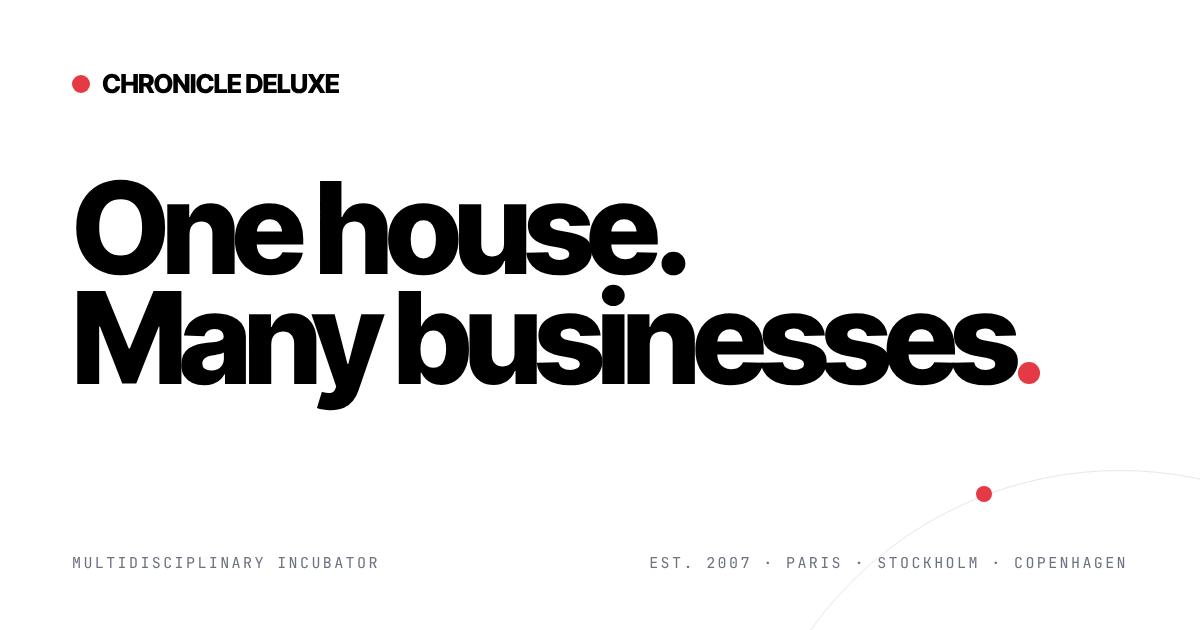
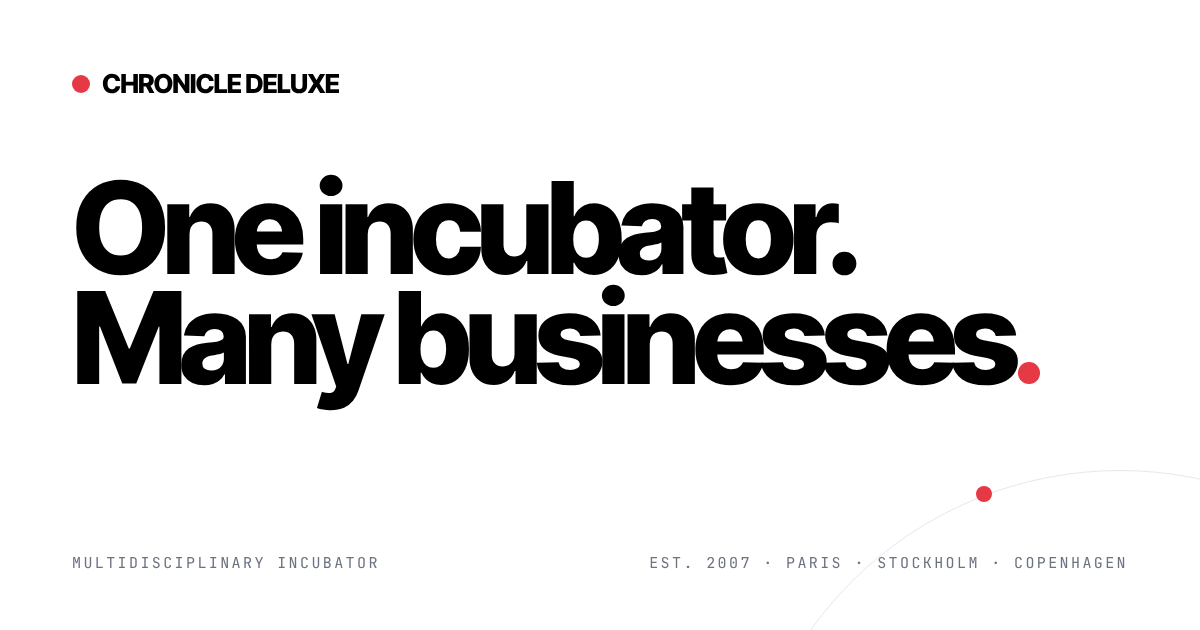
Chronicle Deluxe: One incubator, AW27 in the works, platforms before apps
- The headline is "One incubator. Many businesses." everywhere: the hero,
  the share titles, the structured data slogan and the share image.
- Past Tense is now working on AW27: nine seasons from AW23, in a three
  by three grid, with AW27 pulsing.
- Quomoda and Resourced move ahead of the apps as §04 Platforms; Good
  Margin becomes §05 and Built for us first §06. The index, chapter bars
  and README follow.

Claude-Session: https://claude.ai/code/session_012drcf1SkChJmKaKG4q9mYH

Changed region(s): [[0.2467, 0.2714, 0.7092, 0.4524]]

diff --git a/chronicle-deluxe/index.html b/chronicle-deluxe/index.html
@@ -14,16 +14,16 @@
 
   <meta property="og:type" content="website">
   <meta property="og:site_name" content="Chronicle Deluxe">
-  <meta property="og:title" content="Chronicle Deluxe | One house. Many businesses.">
+  <meta property="og:title" content="Chronicle Deluxe | One incubator. Many businesses.">
   <meta property="og:description" content="A multidisciplinary incubator for fashion, AI and apps. Strategy for fashion and luxury since 2007, and our own ventures built alongside.">
   <meta property="og:url" content="https://www.chronicledeluxe.com/">
   <meta property="og:image" content="https://www.chronicledeluxe.com/assets/img/og.png">
   <meta property="og:image:width" content="1200">
   <meta property="og:image:height" content="630">
-  <meta property="og:image:alt" content="Chronicle Deluxe: One house. Many businesses.">
+  <meta property="og:image:alt" content="Chronicle Deluxe: One incubator. Many businesses.">
   <meta property="og:locale" content="en_US">
   <meta name="twitter:card" content="summary_large_image">
-  <meta name="twitter:title" content="Chronicle Deluxe | One house. Many businesses.">
+  <meta name="twitter:title" content="Chronicle Deluxe | One incubator. Many businesses.">
   <meta name="twitter:description" content="A multidisciplinary incubator for fashion, AI and apps. Strategy for fashion and luxury since 2007, and our own ventures built alongside.">
   <meta name="twitter:image" content="https://www.chronicledeluxe.com/assets/img/og.png">
 
@@ -62,7 +62,7 @@
         "image": "https://www.chronicledeluxe.com/assets/img/og.png",
         "email": "hi@chronicledeluxe.com",
         "foundingDate": "2007",
-        "slogan": "One house. Many businesses.",
+        "slogan": "One incubator. Many businesses.",
         "description": "Multidisciplinary business incubator: strategy for fashion and luxury brands since 2007, AI implementation, and our own ventures in fashion, software and apps.",
         "knowsAbout": ["Fashion strategy", "Luxury brand strategy", "Merchandising", "Product development", "Supply chain operations", "S&OP", "PLM systems", "ERP for fashion", "Business intelligence", "AI implementation"],
         "areaServed": ["Europe", "North America", "Asia"],
@@ -121,9 +121,9 @@
       <li><a href="#services"><span class="mono">§01</span>Services</a></li>
       <li><a href="#technologies"><span class="mono">§02</span>Technologies</a></li>
       <li><a href="#past-tense"><span class="mono">§03</span>Past Tense</a></li>
-      <li><a href="#good-margin"><span class="mono">§04</span>Good Margin</a></li>
-      <li><a href="#built-for-us"><span class="mono">§05</span>Built for us first</a></li>
-      <li><a href="#also"><span class="mono">§06</span>Also</a></li>
+      <li><a href="#platforms"><span class="mono">§04</span>Platforms</a></li>
+      <li><a href="#good-margin"><span class="mono">§05</span>Good Margin</a></li>
+      <li><a href="#built-for-us"><span class="mono">§06</span>Built for us first</a></li>
       <li><a href="#clients"><span class="mono">§07</span>Clients</a></li>
       <li><a href="#contact"><span class="mono">End</span>Let's talk</a></li>
     </ol>
@@ -140,7 +140,7 @@
         </div>
         <h1 class="hero-title" id="hero-title" data-hero-title>
           <span class="sr-only">Chronicle Deluxe: </span>
-          <span class="line"><span class="line-in" style="--i:1">One house.</span></span>
+          <span class="line"><span class="line-in" style="--i:1">One incubator.</span></span>
           <span class="line"><span class="line-in" style="--i:2">Many businesses<i class="big-dot" aria-hidden="true"></i></span></span>
         </h1>
         <div class="hero-lede" data-intro style="--i:4">
@@ -158,7 +158,7 @@
       <div class="wrap">
         <p class="statement-text" data-words>
           We are <b>AI first</b>: supporting brands with AI implementation and strategy across design, product development, buying, sales and operations.
-          We also build a few of our own: a Scandinavian label, iPhone apps, a wholesale platform.
+          We also build a few of our own: a Scandinavian label, a wholesale platform, iPhone apps.
           Outside fashion, every one of them started as a fix for <b>our own daily problems</b>.
         </p>
       </div>
@@ -212,7 +212,7 @@
 
       <div class="film" data-film aria-label="Past Tense lookbook">
         <div class="film-sticky">
-          <p class="film-cap mono wrap"><span>Lookbook · AW23 → SS27</span><span><b data-film-count>01</b> / 08</span></p>
+          <p class="film-cap mono wrap"><span>Lookbook · AW23 → AW27</span><span><b data-film-count>01</b> / 08</span></p>
           <ul class="film-track" role="list">
             <li><img src="assets/img/past-tense/01.webp" alt="Past Tense lookbook image 1" loading="lazy" width="900" height="1234"></li>
             <li><img src="assets/img/past-tense/02.webp" alt="Past Tense lookbook image 2" loading="lazy" width="900" height="1283"></li>
@@ -228,13 +228,14 @@
       </div>
 
       <div class="wrap seasons-block">
-        <p class="chapter-bar mono" data-reveal><span>§03·B · Collections</span><span>AW23 → SS27</span></p>
+        <p class="chapter-bar mono" data-reveal><span>§03·B · Collections</span><span>AW23 → AW27</span></p>
         <div class="seasons-head">
-          <h3 class="big" data-reveal>Eight seasons, one continuous line.</h3>
-          <p class="body muted" data-reveal>From debut in AW23 to what we are cutting now in SS27: a quiet, contiguous wardrobe.</p>
+          <h3 class="big" data-reveal>Nine seasons, one continuous line.</h3>
+          <p class="body muted" data-reveal>From debut in AW23 to what we are cutting now in AW27: a quiet, contiguous wardrobe.</p>
         </div>
         <ol class="seasons" role="list" data-seasons>
-          <li class="now"><b>SS27</b><span class="mono">Working on</span></li>
+          <li class="now"><b>AW27</b><span class="mono">Working on</span></li>
+          <li><b>SS27</b><span class="mono">·</span></li>
           <li><b>AW26</b><span class="mono">·</span></li>
           <li><b>SS26</b><span class="mono">·</span></li>
           <li><b>AW25</b><span class="mono">·</span></li>
@@ -246,10 +247,65 @@
       </div>
     </section>
 
-    <!-- ═══════════════════ §04 GOOD MARGIN ═══════════════════ -->
-    <section class="chapter good-margin" id="good-margin" aria-labelledby="gm-title" data-chapter="§04" data-name="Good Margin">
+    <!-- ═══════════════════ §04 PLATFORMS ═══════════════════ -->
+    <section class="chapter platforms" id="platforms" aria-labelledby="also-title" data-chapter="§04" data-name="Platforms">
       <div class="wrap">
-        <p class="chapter-bar mono" data-reveal><span>§04 · Good Margin</span><span>App · iOS · 2026</span></p>
+        <p class="chapter-bar mono" data-reveal><span>§04 · Platforms</span><span>002</span></p>
+        <h2 class="chapter-lede" id="also-title" data-reveal>Two platforms for fashion brands that we run and back alongside client work.</h2>
+
+        <!-- Quomoda, built from quomoda.com's own landing page (adry/fashionOS, src/pages/Landing.tsx) -->
+        <article class="vp vp-qm" data-reveal data-vp aria-labelledby="qm-title">
+          <p class="vp-tag mono"><span>01 · Quomoda · Since 2020</span><span>Operator · quomoda.com</span></p>
+          <div class="vp-panel">
+            <canvas class="qm-particles" data-qm-particles aria-hidden="true"></canvas>
+            <div class="qm-glow" aria-hidden="true"></div>
+            <div class="qm-hero">
+              <div class="qm-rise"><img class="qm-q" src="assets/img/ventures/quomoda-q.webp" width="171" height="200" alt="Quomoda" loading="lazy"></div>
+              <p class="qm-pill qm-rise" style="--d:.05s"><svg class="qm-spark" viewBox="0 0 24 24" width="14" height="14" aria-hidden="true"><defs><linearGradient id="qm-ai-full" x1="0" y1="1" x2="1" y2="0"><stop offset="0%" stop-color="#4F46E5"/><stop offset="34%" stop-color="#9333EA"/><stop offset="64%" stop-color="#EC4899"/><stop offset="100%" stop-color="#F59E0B"/></linearGradient></defs><path fill="url(#qm-ai-full)" d="M10 5.2 L11.9 11.1 L17.8 13 L11.9 14.9 L10 20.8 L8.1 14.9 L2.2 13 L8.1 11.1 Z"/><path fill="url(#qm-ai-full)" opacity=".5" d="M18.6 3 L19.5 5.6 L22.1 6.5 L19.5 7.4 L18.6 10 L17.7 7.4 L15.1 6.5 L17.7 5.6 Z"/></svg><span class="qm-ai">New</span><span class="qm-pill-t">AI does the data entry, you approve it</span></p>
+              <h3 id="qm-title"><span class="qm-w" style="--d:.15s">Fashion</span> <span class="qm-w" style="--d:.3s">business,</span> <span class="qm-w qm-primary" style="--d:.5s">simplified.</span></h3>
+              <p class="qm-lede qm-rise" style="--d:.75s">QUOMODA is the all-in-one platform for fashion brands and buyers: wholesale, retail and DTC. Linesheets, orders, stock and fulfilment in one place.</p>
+              <div class="qm-ctas qm-rise" style="--d:.95s">
+                <span class="qm-mag"><a class="qm-btn qm-shine" href="https://app.quomoda.com/auth/signup" target="_blank" rel="noopener">Get started<span class="sr-only"> on Quomoda (opens in a new tab)</span></a></span>
+                <span class="qm-mag"><a class="qm-btn qm-outline" href="https://calendly.com/adrienforray" target="_blank" rel="noopener"><svg viewBox="0 0 24 24" width="16" height="16" fill="none" stroke="currentColor" stroke-width="2" stroke-linecap="round" stroke-linejoin="round" aria-hidden="true"><path d="M8 2v4M16 2v4"/><rect x="3" y="4" width="18" height="18" rx="2"/><path d="M3 10h18M8 14h.01M12 14h.01M16 14h.01M8 18h.01M12 18h.01M16 18h.01"/></svg>Book a demo<span class="sr-only"> (opens in a new tab)</span></a></span>
+                <span class="qm-mag"><a class="qm-btn qm-ghost" href="https://app.quomoda.com/auth/login" target="_blank" rel="noopener">Sign in<span class="sr-only"> to Quomoda (opens in a new tab)</span></a></span>
+              </div>
+            </div>
+            <div class="qm-how">
+              <p class="qm-kicker">How it works</p>
+              <h4 class="qm-how-title">Four steps from collection to cash</h4>
+              <ol class="qm-steps" data-qm-steps role="list">
+                <li class="qm-card"><p class="qm-head"><span class="qm-n">01</span><span class="qm-zone">Design &amp; samples</span><span class="qm-slot"><span class="qm-was">Draft</span><span class="qm-now live">Live</span></span></p><h5>Share your linesheet</h5><p>Upload your collection once and send buyers a beautiful, shoppable link. No PDFs, no spreadsheets.</p><p class="qm-foot"><span class="qm-ref">SS26-LINESHEET</span><span>42 styles · 6 buyers</span></p></li>
+                <li class="qm-card"><p class="qm-head"><span class="qm-n">02</span><span class="qm-zone">Showroom</span><span class="qm-slot"><span class="qm-was">Pending</span><span class="qm-now ok">Confirmed</span></span></p><h5>Buyers order directly</h5><p>Wholesale orders land in QUOMODA, confirmed in one click: sizes, doors and delivery drops included.</p><p class="qm-foot"><span class="qm-ref">ORD-2026-0142</span><span>Atelier Verdon · 68 units</span></p></li>
+                <li class="qm-card"><p class="qm-head"><span class="qm-n">03</span><span class="qm-zone">Production</span><span class="qm-slot"><span class="qm-was">Planned</span><span class="qm-now work">In production</span></span></p><h5>Produce &amp; receive stock</h5><p>Raise purchase orders to your factories, track production, then receive finished goods straight into stock.</p><p class="qm-foot"><span class="qm-ref">PO-2048</span><span>Manifattura Tessile · 300 units</span></p></li>
+                <li class="qm-card"><p class="qm-head"><span class="qm-n">04</span><span class="qm-zone">Dispatch</span><span class="qm-slot"><span class="qm-was">Packing</span><span class="qm-now ok">Sent</span></span></p><h5>You ship &amp; invoice</h5><p>Allocate stock, print pick and packing lists, and send invoices as PDFs. Wholesale and DTC ship from the same stock.</p><p class="qm-foot"><span class="qm-ref">INV-2026-0087</span><span>4 cartons</span></p></li>
+              </ol>
+            </div>
+          </div>
+        </article>
+
+        <!-- Resourced, built from resourced.com's own landing page (Resourced-AB/Landing-Page): the hero sentence, its rolling role and the real mark cloud -->
+        <article class="vp vp-rs" data-reveal data-vp aria-labelledby="rs-title">
+          <p class="vp-tag mono"><span>02 · Resourced · Since 2020</span><span>Investor · resourced.com</span></p>
+          <div class="vp-panel">
+            <div class="rs-mark" data-rs-mark aria-hidden="true"></div>
+            <div class="rs-copy">
+              <img class="rs-logo" src="assets/img/ventures/resourced-logo.svg" width="230" height="38" alt="Resourced" loading="lazy">
+              <h3 class="rs-lede" id="rs-title">You’re a <br class="rs-hold"><span class="rs-tail"><span class="rs-roll" data-roll><span class="rs-w is-on">product developer</span><span class="rs-w" aria-hidden="true">designer</span><span class="rs-w" aria-hidden="true">merchandiser</span><span class="rs-w" aria-hidden="true">buyer</span><span class="rs-w" aria-hidden="true">garment technologist</span><span class="rs-w" aria-hidden="true">sourcing manager</span><span class="rs-w" aria-hidden="true">production manager</span><span class="rs-w" aria-hidden="true">controller</span></span><span class="rs-dot" aria-hidden="true">.</span><span class="sr-only">.</span></span><br>Not an admin.</h3>
+              <p class="rs-sub">Bring everyone who touches your product into a single flow, from idea to finished product, so you ship the right product, at the right time, at the right price. That’s how brands scale for real.</p>
+              <p class="rs-act">
+                <a class="rs-btn" href="https://meetings-eu1.hubspot.com/meetings/egroendal/resourced-demo" target="_blank" rel="noopener">Book a demo <span aria-hidden="true">›</span><span class="sr-only">with Resourced (opens in a new tab)</span></a>
+                <a class="rs-link" href="https://www.resourced.com" target="_blank" rel="noopener">resourced.com <span aria-hidden="true">↗</span><span class="sr-only">(opens in a new tab)</span></a>
+              </p>
+            </div>
+          </div>
+        </article>
+      </div>
+    </section>
+
+    <!-- ═══════════════════ §05 GOOD MARGIN ═══════════════════ -->
+    <section class="chapter good-margin" id="good-margin" aria-labelledby="gm-title" data-chapter="§05" data-name="Good Margin">
+      <div class="wrap">
+        <p class="chapter-bar mono" data-reveal><span>§05 · Good Margin</span><span>App · iOS · 2026</span></p>
         <div class="gm-grid">
           <div class="gm-copy">
             <h2 class="giant upper" id="gm-title" data-split>Bad margin kills good brands<i class="dot" aria-hidden="true"></i></h2>
@@ -288,10 +344,10 @@
       </div>
     </section>
 
-    <!-- ═══════════════════ §05 BUILT FOR US FIRST ═══════════════════ -->
-    <section class="chapter own" id="built-for-us" aria-labelledby="own-title" data-chapter="§05" data-name="Built for us first">
+    <!-- ═══════════════════ §06 BUILT FOR US FIRST ═══════════════════ -->
+    <section class="chapter own" id="built-for-us" aria-labelledby="own-title" data-chapter="§06" data-name="Built for us first">
       <div class="wrap">
-        <p class="chapter-bar mono" data-reveal><span>§05 · Built for us first</span><span>003</span></p>
+        <p class="chapter-bar mono" data-reveal><span>§06 · Built for us first</span><span>003</span></p>
         <h2 class="giant" id="own-title" data-split>Outside fashion, we build what we need<i class="dot" aria-hidden="true"></i></h2>
         <p class="body own-lede" data-reveal>If something slows us down every day, we fix it. If the fix works for us, it usually works for someone else too, and it becomes a business with a look of its own.</p>
 
@@ -358,61 +414,6 @@
               <span class="dz-sticker s2" aria-hidden="true">🎂</span>
               <span class="dz-sticker s3" aria-hidden="true">🍿</span>
               <div class="dz-phone"><img src="assets/img/ventures/dayzie-home.webp" alt="The Dayzie home screen with a live countdown to a costume party" width="660" height="1434" loading="lazy"></div>
-            </div>
-          </div>
-        </article>
-      </div>
-    </section>
-
-    <!-- ═══════════════════ §06 ALSO ═══════════════════ -->
-    <section class="chapter also" id="also" aria-labelledby="also-title" data-chapter="§06" data-name="Also">
-      <div class="wrap">
-        <p class="chapter-bar mono" data-reveal><span>§06 · Also</span><span>002</span></p>
-        <h2 class="chapter-lede" id="also-title" data-reveal>Two platforms for fashion brands that we run and back alongside client work.</h2>
-
-        <!-- Quomoda, built from quomoda.com's own landing page (adry/fashionOS, src/pages/Landing.tsx) -->
-        <article class="vp vp-qm" data-reveal data-vp aria-labelledby="qm-title">
-          <p class="vp-tag mono"><span>01 · Quomoda · Since 2020</span><span>Operator · quomoda.com</span></p>
-          <div class="vp-panel">
-            <canvas class="qm-particles" data-qm-particles aria-hidden="true"></canvas>
-            <div class="qm-glow" aria-hidden="true"></div>
-            <div class="qm-hero">
-              <div class="qm-rise"><img class="qm-q" src="assets/img/ventures/quomoda-q.webp" width="171" height="200" alt="Quomoda" loading="lazy"></div>
-              <p class="qm-pill qm-rise" style="--d:.05s"><svg class="qm-spark" viewBox="0 0 24 24" width="14" height="14" aria-hidden="true"><defs><linearGradient id="qm-ai-full" x1="0" y1="1" x2="1" y2="0"><stop offset="0%" stop-color="#4F46E5"/><stop offset="34%" stop-color="#9333EA"/><stop offset="64%" stop-color="#EC4899"/><stop offset="100%" stop-color="#F59E0B"/></linearGradient></defs><path fill="url(#qm-ai-full)" d="M10 5.2 L11.9 11.1 L17.8 13 L11.9 14.9 L10 20.8 L8.1 14.9 L2.2 13 L8.1 11.1 Z"/><path fill="url(#qm-ai-full)" opacity=".5" d="M18.6 3 L19.5 5.6 L22.1 6.5 L19.5 7.4 L18.6 10 L17.7 7.4 L15.1 6.5 L17.7 5.6 Z"/></svg><span class="qm-ai">New</span><span class="qm-pill-t">AI does the data entry, you approve it</span></p>
-              <h3 id="qm-title"><span class="qm-w" style="--d:.15s">Fashion</span> <span class="qm-w" style="--d:.3s">business,</span> <span class="qm-w qm-primary" style="--d:.5s">simplified.</span></h3>
-              <p class="qm-lede qm-rise" style="--d:.75s">QUOMODA is the all-in-one platform for fashion brands and buyers: wholesale, retail and DTC. Linesheets, orders, stock and fulfilment in one place.</p>
-              <div class="qm-ctas qm-rise" style="--d:.95s">
-                <span class="qm-mag"><a class="qm-btn qm-shine" href="https://app.quomoda.com/auth/signup" target="_blank" rel="noopener">Get started<span class="sr-only"> on Quomoda (opens in a new tab)</span></a></span>
-                <span class="qm-mag"><a class="qm-btn qm-outline" href="https://calendly.com/adrienforray" target="_blank" rel="noopener"><svg viewBox="0 0 24 24" width="16" height="16" fill="none" stroke="currentColor" stroke-width="2" stroke-linecap="round" stroke-linejoin="round" aria-hidden="true"><path d="M8 2v4M16 2v4"/><rect x="3" y="4" width="18" height="18" rx="2"/><path d="M3 10h18M8 14h.01M12 14h.01M16 14h.01M8 18h.01M12 18h.01M16 18h.01"/></svg>Book a demo<span class="sr-only"> (opens in a new tab)</span></a></span>
-                <span class="qm-mag"><a class="qm-btn qm-ghost" href="https://app.quomoda.com/auth/login" target="_blank" rel="noopener">Sign in<span class="sr-only"> to Quomoda (opens in a new tab)</span></a></span>
-              </div>
-            </div>
-            <div class="qm-how">
-              <p class="qm-kicker">How it works</p>
-              <h4 class="qm-how-title">Four steps from collection to cash</h4>
-              <ol class="qm-steps" data-qm-steps role="list">
-                <li class="qm-card"><p class="qm-head"><span class="qm-n">01</span><span class="qm-zone">Design &amp; samples</span><span class="qm-slot"><span class="qm-was">Draft</span><span class="qm-now live">Live</span></span></p><h5>Share your linesheet</h5><p>Upload your collection once and send buyers a beautiful, shoppable link. No PDFs, no spreadsheets.</p><p class="qm-foot"><span class="qm-ref">SS26-LINESHEET</span><span>42 styles · 6 buyers</span></p></li>
-                <li class="qm-card"><p class="qm-head"><span class="qm-n">02</span><span class="qm-zone">Showroom</span><span class="qm-slot"><span class="qm-was">Pending</span><span class="qm-now ok">Confirmed</span></span></p><h5>Buyers order directly</h5><p>Wholesale orders land in QUOMODA, confirmed in one click: sizes, doors and delivery drops included.</p><p class="qm-foot"><span class="qm-ref">ORD-2026-0142</span><span>Atelier Verdon · 68 units</span></p></li>
-                <li class="qm-card"><p class="qm-head"><span class="qm-n">03</span><span class="qm-zone">Production</span><span class="qm-slot"><span class="qm-was">Planned</span><span class="qm-now work">In production</span></span></p><h5>Produce &amp; receive stock</h5><p>Raise purchase orders to your factories, track production, then receive finished goods straight into stock.</p><p class="qm-foot"><span class="qm-ref">PO-2048</span><span>Manifattura Tessile · 300 units</span></p></li>
-                <li class="qm-card"><p class="qm-head"><span class="qm-n">04</span><span class="qm-zone">Dispatch</span><span class="qm-slot"><span class="qm-was">Packing</span><span class="qm-now ok">Sent</span></span></p><h5>You ship &amp; invoice</h5><p>Allocate stock, print pick and packing lists, and send invoices as PDFs. Wholesale and DTC ship from the same stock.</p><p class="qm-foot"><span class="qm-ref">INV-2026-0087</span><span>4 cartons</span></p></li>
-              </ol>
-            </div>
-          </div>
-        </article>
-
-        <!-- Resourced, built from resourced.com's own landing page (Resourced-AB/Landing-Page): the hero sentence, its rolling role and the real mark cloud -->
-        <article class="vp vp-rs" data-reveal data-vp aria-labelledby="rs-title">
-          <p class="vp-tag mono"><span>02 · Resourced · Since 2020</span><span>Investor · resourced.com</span></p>
-          <div class="vp-panel">
-            <div class="rs-mark" data-rs-mark aria-hidden="true"></div>
-            <div class="rs-copy">
-              <img class="rs-logo" src="assets/img/ventures/resourced-logo.svg" width="230" height="38" alt="Resourced" loading="lazy">
-              <h3 class="rs-lede" id="rs-title">You’re a <br class="rs-hold"><span class="rs-tail"><span class="rs-roll" data-roll><span class="rs-w is-on">product developer</span><span class="rs-w" aria-hidden="true">designer</span><span class="rs-w" aria-hidden="true">merchandiser</span><span class="rs-w" aria-hidden="true">buyer</span><span class="rs-w" aria-hidden="true">garment technologist</span><span class="rs-w" aria-hidden="true">sourcing manager</span><span class="rs-w" aria-hidden="true">production manager</span><span class="rs-w" aria-hidden="true">controller</span></span><span class="rs-dot" aria-hidden="true">.</span><span class="sr-only">.</span></span><br>Not an admin.</h3>
-              <p class="rs-sub">Bring everyone who touches your product into a single flow, from idea to finished product, so you ship the right product, at the right time, at the right price. That’s how brands scale for real.</p>
-              <p class="rs-act">
-                <a class="rs-btn" href="https://meetings-eu1.hubspot.com/meetings/egroendal/resourced-demo" target="_blank" rel="noopener">Book a demo <span aria-hidden="true">›</span><span class="sr-only">with Resourced (opens in a new tab)</span></a>
-                <a class="rs-link" href="https://www.resourced.com" target="_blank" rel="noopener">resourced.com <span aria-hidden="true">↗</span><span class="sr-only">(opens in a new tab)</span></a>
-              </p>
             </div>
           </div>
         </article>

diff --git a/chronicle-deluxe/assets/css/site.css b/chronicle-deluxe/assets/css/site.css
@@ -420,8 +420,8 @@ ul[role="list"], ol[role="list"], .index ol { list-style: none; padding: 0; }
 .seasons-block { margin-top: clamp(90px, 14vh, 160px); }
 .seasons-head { display: grid; gap: 18px; margin-bottom: clamp(32px, 5vh, 56px); }
 @media (min-width: 900px) { .seasons-head { grid-template-columns: 1fr 1fr; align-items: end; } }
-.seasons { position: relative; display: grid; grid-template-columns: repeat(2, minmax(0, 1fr)); border-top: 1px solid var(--g200); }
-@media (min-width: 720px) { .seasons { grid-template-columns: repeat(4, minmax(0, 1fr)); } }
+/* Nine seasons: three rows of three at every width. */
+.seasons { position: relative; display: grid; grid-template-columns: repeat(3, minmax(0, 1fr)); border-top: 1px solid var(--g200); }
 .seasons li { display: grid; gap: 6px; padding: 22px 16px 22px 0; border-bottom: 1px solid var(--g200); }
 .seasons b { font-size: clamp(1.6rem, 1.2rem + 1.2vw, 2.6rem); font-weight: 800; letter-spacing: -.045em; line-height: 1; }
 .seasons .mono { color: var(--g500); }

diff --git a/chronicle-deluxe/README.md b/chronicle-deluxe/README.md
@@ -23,13 +23,13 @@ python3 -m http.server 8765     # then open http://127.0.0.1:8765
 | Chapter | What moves |
 |---|---|
 | Header | Shows the chapter you are in (`§03 Past Tense`) and swaps as you scroll. "Index" opens a full-screen chapter list. Turns white over the red finale. |
-| Hero | "One house. Many businesses." rises line by line, then the red dot lands. A thin ring with a red dot orbits behind, as on the brand's social card. |
+| Hero | "One incubator. Many businesses." rises line by line, then the red dot lands. A thin ring with a red dot orbits behind, as on the brand's social card. |
 | Statement | AI first, our own ventures, our own daily problems: words darken as you read. |
 | §01 Services, §02 Technologies | The live site's two tables. Rows rise in; on hover a row fills black. |
-| §03 Past Tense | The headline rises word by word, the photo unveils from below and drifts. Then the lookbook pins and slides sideways; the frame in the centre comes into colour. The eight seasons follow, with SS27 pulsing. |
-| §04 Good Margin | The phone settles from a tilt as it arrives, the cards slide in and the margins count up. |
-| §05 Built for us first | AI implementation in the house style (an agent typing its day). Then Good Zones and Dayzie, each in its own look: Good Zones' live clock cards (drag any slider and every city follows), Dayzie's sticker, countdown ticket and real app screen. |
-| §06 Also | Quomoda and Resourced, rebuilt from their own landing pages: Quomoda's hero (particles, glow, AI pill, word rise, magnetic buttons) and its four step cards, whose status pills turn over as you scroll; Resourced's two-tone sentence with the role flipping under a yellow marker, over the real WebGL mark cloud. |
+| §03 Past Tense | The headline rises word by word, the photo unveils from below and drifts. Then the lookbook pins and slides sideways; the frame in the centre comes into colour. The nine seasons follow, with AW27 (in the works) pulsing. |
+| §04 Platforms | Quomoda and Resourced, rebuilt from their own landing pages: Quomoda's hero (particles, glow, AI pill, word rise, magnetic buttons) and its four step cards, whose status pills turn over as you scroll; Resourced's two-tone sentence with the role flipping under a yellow marker, over the real WebGL mark cloud. |
+| §05 Good Margin | The phone settles from a tilt as it arrives, the cards slide in and the margins count up. |
+| §06 Built for us first | AI implementation in the house style (an agent typing its day). Then Good Zones and Dayzie, each in its own look: Good Zones' live clock cards (drag any slider and every city follows), Dayzie's sticker, countdown ticket and real app screen. |
 | §07 Clients | Two giant tickers in opposite directions, faster while you scroll, plus the plain list. |
 | Let's talk | Pinned: the red dot grows until it is the whole screen, then "LET'S TALK." arrives. |
 
@@ -70,7 +70,7 @@ as before. Neither project's saved settings change.
 
 | What | Where | Current value |
 |---|---|---|
-| AI implementation link | §05 card | An email link |
+| AI implementation link | §06 card | An email link |
 
 ## Motion and accessibility
 
